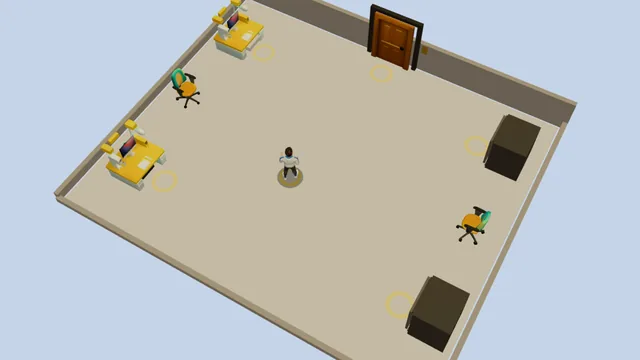
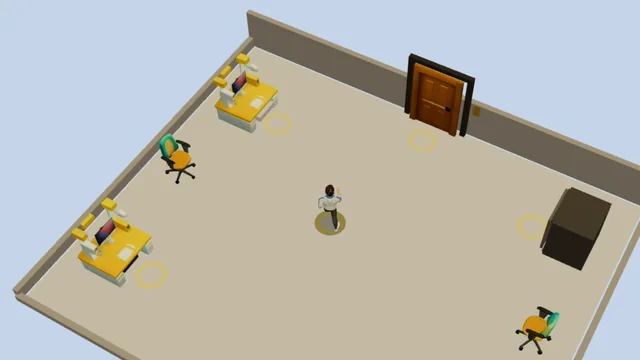
3D arcade: live games — new descriptions, recaptured thumbnails + OG cards (needs user OK)

diff --git a/play50games-frontend/src/arcade3d/games/obstacle-race/meta.ts b/play50games-frontend/src/arcade3d/games/obstacle-race/meta.ts
@@ -14,7 +14,7 @@ export const obstacleRaceMeta: ArcadeGameMeta = {
    slug: "obstacle-race",
    title: "Obstacle Race",
    tagline: "Spinning bars, moving blocks, one finish line.",
-   description: "Race through a physics obstacle course. Beat your best time and climb the leaderboard.",
+   description: "Race through a physics obstacle course of spinning bars and moving blocks to the finish line. Beat your best time and climb the leaderboard.",
    order: 10,
    status: "live",
    difficulty: 2,

diff --git a/play50games-frontend/src/arcade3d/games/warehouse-rush/meta.ts b/play50games-frontend/src/arcade3d/games/warehouse-rush/meta.ts
@@ -29,7 +29,7 @@ export const warehouseRushMeta: ArcadeGameMeta = {
    slug: "warehouse-rush",
    title: "Warehouse Rush",
    tagline: "Right box, right zone, 60 seconds.",
-   description: "Pick up coloured boxes and deliver them to the matching zone. The wrong zone costs points.",
+   description: "Pick up coloured boxes and deliver them to the matching zone within 60 seconds. The wrong zone costs points, so sort carefully.",
    order: 6,
    status: "live",
    difficulty: 2,

diff --git a/play50games-frontend/src/arcade3d/games/clean-city/meta.ts b/play50games-frontend/src/arcade3d/games/clean-city/meta.ts
@@ -18,7 +18,7 @@ export const cleanCityMeta: ArcadeGameMeta = {
    slug: "clean-city",
    title: "Clean the City",
    tagline: "Tidy up the park, the city and the beach.",
-   description: "Collect every piece of litter across three maps. Faster clean-ups earn a time bonus.",
+   description: "Collect every piece of litter across a park, a city street and a beach as a tidy-up runner. Faster clean-ups earn a time bonus.",
    order: 8,
    status: "live",
    difficulty: 1,

diff --git a/play50games-frontend/src/arcade3d/games/pigeon-crossing/meta.ts b/play50games-frontend/src/arcade3d/games/pigeon-crossing/meta.ts
@@ -6,7 +6,7 @@ export const pigeonCrossingMeta: ArcadeGameMeta = {
    slug: "pigeon-crossing",
    title: "Pigeon Crossing",
    tagline: "Why did the pigeon cross the road?",
-   description: "Hop a brave pigeon across busy lanes of traffic. Every level adds faster cars.",
+   description: "Hop a brave pigeon across busy lanes of traffic to reach the other side. Every level adds faster cars, so time each dash carefully.",
    order: 4,
    status: "live",
    difficulty: 2,

diff --git a/play50games-frontend/src/arcade3d/games/office-escape/meta.ts b/play50games-frontend/src/arcade3d/games/office-escape/meta.ts
@@ -18,7 +18,7 @@ export const officeEscapeMeta: ArcadeGameMeta = {
    slug: "office-escape",
    title: "Office Escape",
    tagline: "Late for the meeting. Run!",
-   description: "Sprint through the office, jump desks and dodge chairs. It gets faster every 20 seconds.",
+   description: "Sprint through the office, jump desks and dodge rolling chairs on the way to the big meeting. It gets faster every 20 seconds.",
    order: 3,
    status: "live",
    difficulty: 1,

diff --git a/play50games-frontend/src/arcade3d/games/penalty-hero/meta.ts b/play50games-frontend/src/arcade3d/games/penalty-hero/meta.ts
@@ -5,7 +5,7 @@ export const penaltyHeroMeta: ArcadeGameMeta = {
    slug: "penalty-hero",
    title: "Penalty Hero",
    tagline: "10 shots. Beat the keeper.",
-   description: "Pick a corner and shoot. The keeper guesses a side. Score streaks for bonus points.",
+   description: "Pick a corner and take 10 penalty shots. The keeper guesses a side, so read him, beat him and build score streaks for bonus points.",
    order: 5,
    status: "live",
    difficulty: 2,

diff --git a/play50games-frontend/src/arcade3d/games/tower-climb/meta.ts b/play50games-frontend/src/arcade3d/games/tower-climb/meta.ts
@@ -29,7 +29,7 @@ export const towerClimbMeta: ArcadeGameMeta = {
    slug: "tower-climb",
    title: "Tower Climb",
    tagline: "Jump higher. Do not look down.",
-   description: "Climb a tower of moving and falling platforms, grab coins and reach checkpoints.",
+   description: "Climb a tower of moving and falling platforms, grab coins and reach checkpoints. Jump higher and do not look down.",
    order: 7,
    status: "live",
    difficulty: 2,

diff --git a/play50games-frontend/src/arcade3d/games/museum-guard/README.md b/play50games-frontend/src/arcade3d/games/museum-guard/README.md
@@ -259,7 +259,7 @@ TASK P-18-museum-guard | build museum-guard | branch cursor/game-museum-guard | 
 - `looks.ts`, `looks.test.ts` — palette, eye band, radar rects
 - `assets.ts`, `assets.test.ts` — GLB fits on the real meshes
 - `Scene.tsx`, `Gallery.tsx`, `Primitives.tsx`, `Hud.tsx`, `Hud.module.css`
-- `index.tsx`, `meta.ts` (controls text only; scoring and `status: "dev"` unchanged; thumbnail null)
+- `index.tsx`, `meta.ts` (controls text only; scoring and `status: "dev"` unchanged; thumbnail wired)
 - `tools/thumbs/inputs/museum-guard.mjs`
 - `assets.spec.json` left as the bust recipe; the bust is not loaded
 
